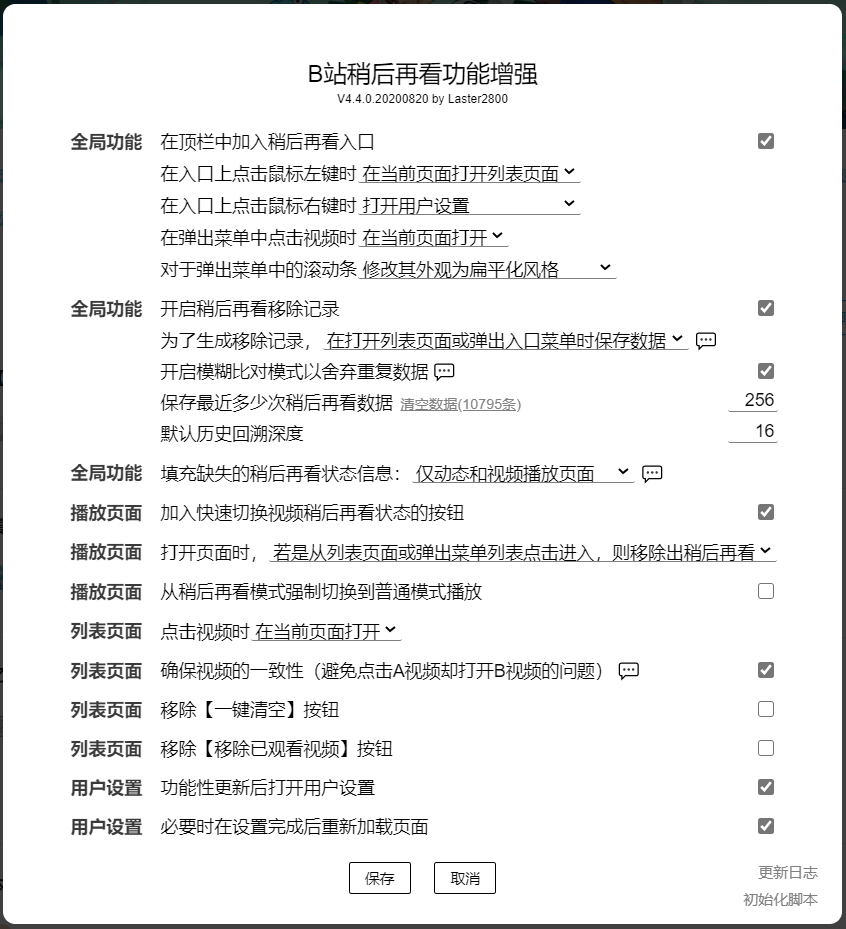
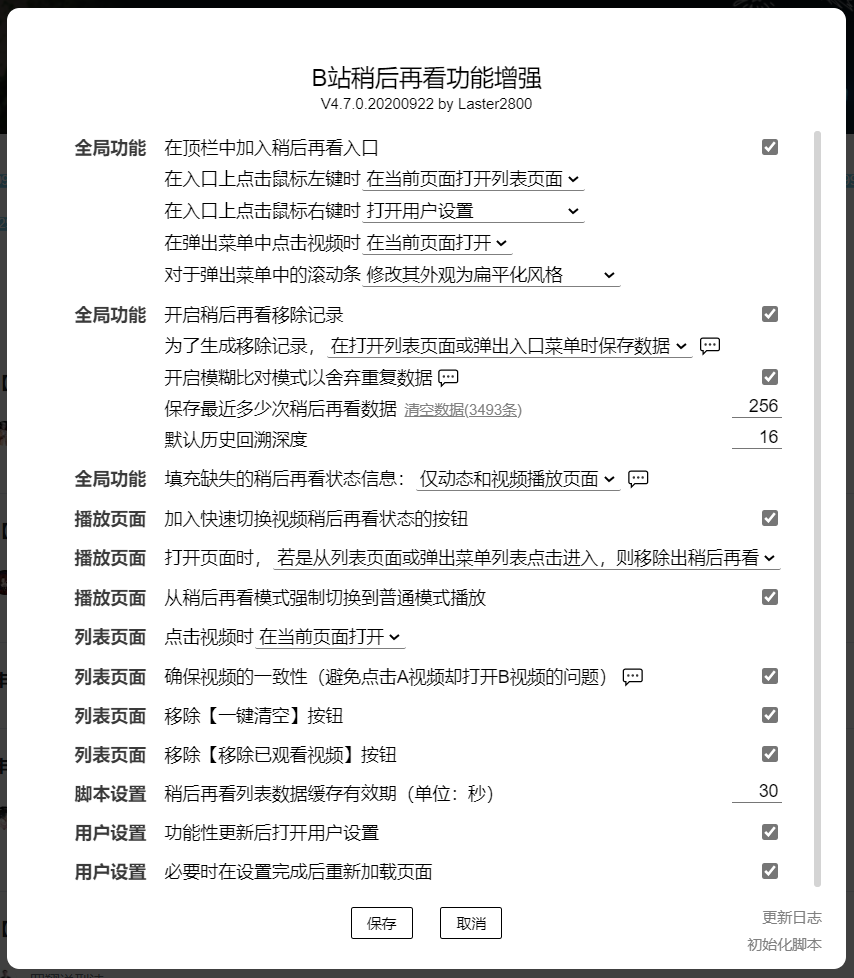
B站稍后再看功能增强
* 对稍后再看列表数据进行缓存，在缓存的有效期内将会使用缓存来代替网络请求，除非有必要确保数据的正确性；并提供有效期的设置选项
* 配置的默认值硬编码进 configMap 中，而不再作为脚本常量看待
* 修复某些情况下稍后再看列表数据刷新没有完毕就进行下一步处理的问题

diff --git a/BilibiliWatchlaterPlus/BilibiliWatchlaterPlus.js b/BilibiliWatchlaterPlus/BilibiliWatchlaterPlus.js
@@ -1,6 +1,6 @@
 // ==UserScript==
 // @name            B站稍后再看功能增强
-// @version         4.6.4.20200921
+// @version         4.7.0.20200922
 // @namespace       laster2800
 // @author          Laster2800
 // @description     与稍后再看功能相关，一切你能想到和想不到的功能
@@ -174,6 +174,7 @@
    * @property {boolean} forceConsistentVideo 确保视频的一致性
    * @property {boolean} removeButton_removeAll 移除【一键清空】按钮
    * @property {boolean} removeButton_removeWatched 移除【移除已观看视频】按钮
+   * @property {number} watchlaterListCacheValidPeriod 稍后再看列表数据缓存有效期（单位：秒）
    * @property {boolean} openSettingAfterConfigUpdate 功能性更新后打开设置页面
    * @property {boolean} reloadAfterSetting 设置生效后刷新页面
    */
@@ -182,6 +183,7 @@
    */
   /**
    * @typedef GMObject_configMap_item
+   * @property {*} default 默认值
    * @property {'checked'|'value'} attr 对应 `DOM` 节点上的属性
    * @property {boolean} [manual] 配置保存时是否需要手动处理
    * @property {boolean} [needNotReload] 配置改变后是否不需要重新加载就能生效
@@ -250,8 +252,6 @@
    * @typedef GMObject_const
    * @property {number} rhsMin 稍后再看数据最小保存次数
    * @property {number} rhsMax 稍后再看数据最大保存次数
-   * @property {number} defaultRhs 稍后再看数据的默认保存次数
-   * @property {number} defaultRhst 默认历史回溯深度
    * @property {number} rhsWarning 稍后再看数据保存数警告线
    * @property {number} fadeTime UI 渐变时间（单位：ms）
    * @property {number} textFadeTime 文字渐变时间（单位：ms）
@@ -282,51 +282,31 @@
   const gm = {
     id: 'gm395456',
     configVersion: GM_getValue('configVersion'),
-    configUpdate: 20200819,
+    configUpdate: 20200922,
     searchParams: new URL(location.href).searchParams,
-    config: {
-      headerButton: true,
-      headerButtonOpL: Enums.headerButtonOp.openListInCurrent,
-      headerButtonOpR: Enums.headerButtonOp.openUserSetting,
-      openHeaderMenuLink: Enums.openHeaderMenuLink.openInCurrent,
-      menuScrollbarSetting: Enums.menuScrollbarSetting.beautify,
-      removeHistory: true,
-      removeHistorySavePoint: Enums.removeHistorySavePoint.listAndMenu,
-      removeHistoryFuzzyCompare: true,
-      removeHistorySaves: null,
-      removeHistorySearchTimes: null,
-      fillWatchlaterStatus: Enums.fillWatchlaterStatus.dynamicAndVideo,
-      videoButton: true,
-      autoRemove: Enums.autoRemove.openFromList,
-      redirect: false,
-      openListVideo: Enums.openListVideo.openInCurrent,
-      forceConsistentVideo: true,
-      removeButton_removeAll: false,
-      removeButton_removeWatched: false,
-      openSettingAfterConfigUpdate: true,
-      reloadAfterSetting: true,
-    },
+    config: {},
     configMap: {
-      headerButton: { attr: 'checked' },
-      headerButtonOpL: { attr: 'value', configVersion: 20200716 },
-      headerButtonOpR: { attr: 'value', configVersion: 20200716 },
-      openHeaderMenuLink: { attr: 'value', configVersion: 20200717 },
-      menuScrollbarSetting: { attr: 'value', configVersion: 20200722 },
-      removeHistory: { attr: 'checked', manual: true },
-      removeHistorySavePoint: { attr: 'value', configVersion: 20200815 },
-      removeHistoryFuzzyCompare: { attr: 'checked', needNotReload: true, configVersion: 20200819 },
-      removeHistorySaves: { attr: 'value', manual: true, needNotReload: true, configVersion: 20200721 },
-      removeHistorySearchTimes: { attr: 'value', manual: true, needNotReload: true, configVersion: 20200716 },
-      fillWatchlaterStatus: { attr: 'value', configVersion: 20200819 },
-      videoButton: { attr: 'checked' },
-      autoRemove: { attr: 'value', configVersion: 20200805 },
-      redirect: { attr: 'checked' },
-      openListVideo: { attr: 'value', configVersion: 20200717 },
-      forceConsistentVideo: { attr: 'checked', configVersion: 20200723 },
-      removeButton_removeAll: { attr: 'checked', configVersion: 20200722 },
-      removeButton_removeWatched: { attr: 'checked', configVersion: 20200722 },
-      openSettingAfterConfigUpdate: { attr: 'checked', configVersion: 20200805 },
-      reloadAfterSetting: { attr: 'checked', needNotReload: true, configVersion: 20200715 },
+      headerButton: { default: true, attr: 'checked' },
+      headerButtonOpL: { default: Enums.headerButtonOp.openListInCurrent, attr: 'value', configVersion: 20200716 },
+      headerButtonOpR: { default: Enums.headerButtonOp.openUserSetting, attr: 'value', configVersion: 20200716 },
+      openHeaderMenuLink: { default: Enums.openHeaderMenuLink.openInCurrent, attr: 'value', configVersion: 20200717 },
+      menuScrollbarSetting: { default: Enums.menuScrollbarSetting.beautify, attr: 'value', configVersion: 20200722 },
+      removeHistory: { default: true, attr: 'checked', manual: true },
+      removeHistorySavePoint: { default: Enums.removeHistorySavePoint.listAndMenu, attr: 'value', configVersion: 20200815 },
+      removeHistoryFuzzyCompare: { default: true, attr: 'checked', needNotReload: true, configVersion: 20200819 },
+      removeHistorySaves: { default: 64, attr: 'value', manual: true, needNotReload: true, configVersion: 20200721 },
+      removeHistorySearchTimes: { default: 16, attr: 'value', manual: true, needNotReload: true, configVersion: 20200716 },
+      fillWatchlaterStatus: { default: Enums.fillWatchlaterStatus.dynamicAndVideo, attr: 'value', configVersion: 20200819 },
+      videoButton: { default: true, attr: 'checked' },
+      autoRemove: { default: Enums.autoRemove.openFromList, attr: 'value', configVersion: 20200805 },
+      redirect: { default: false, attr: 'checked' },
+      openListVideo: { default: Enums.openListVideo.openInCurrent, attr: 'value', configVersion: 20200717 },
+      forceConsistentVideo: { default: true, attr: 'checked', configVersion: 20200723 },
+      removeButton_removeAll: { default: false, attr: 'checked', configVersion: 20200722 },
+      removeButton_removeWatched: { default: false, attr: 'checked', configVersion: 20200722 },
+      watchlaterListCacheValidPeriod: { default: 30, attr: 'value', manual: true, needNotReload: true, configVersion: 20200922 },
+      openSettingAfterConfigUpdate: { default: true, attr: 'checked', configVersion: 20200805 },
+      reloadAfterSetting: { default: true, attr: 'checked', needNotReload: true, configVersion: 20200715 },
     },
     data: {
       removeHistoryData: null,
@@ -354,8 +334,6 @@
     const: {
       rhsMin: 1,
       rhsMax: 1024, // 经过性能测试，放宽到 1024 应该没有太大问题
-      defaultRhs: 64, // 就目前的 PC 运算力，即使达到 gm.const.rhsWarning 且在极限情况下也不会有明显的卡顿
-      defaultRhst: 16,
       rhsWarning: 256,
       fadeTime: 400,
       textFadeTime: 100,
@@ -427,9 +405,10 @@
     initAtDocumentStart() {
       // document-start 级用户配置读取
       if (gm.configVersion > 0) {
-        gm.config.redirect = this.method.gmValidate('redirect', gm.config.redirect)
+        gm.config.redirect = this.method.gmValidate('redirect', gm.configMap.redirect.default)
       } else {
-        GM_setValue('redirect', gm.config.redirect)
+        gm.config.redirect = gm.configMap.redirect.default
+        GM_setValue('redirect', gm.configMap.redirect.default)
       }
     }
 
@@ -446,10 +425,11 @@
      * 初始化全局对象
      */
     initGMObject() {
-      gm.config = {
-        ...gm.config,
-        removeHistorySaves: gm.const.defaultRhs,
-        removeHistorySearchTimes: gm.const.defaultRhst,
+      const cfgDocumentStart = { redirect: true } // document-start 时期就处理过的配置
+      for (const name in gm.configMap) {
+        if (!cfgDocumentStart[name]) {
+          gm.config[name] = gm.configMap[name].default
+        }
       }
 
       gm.data = {
@@ -495,6 +475,20 @@
               }
             }
 
+            if (!reload && gm.config.watchlaterListCacheValidPeriod > 0) {
+              const cacheTime = GM_getValue('watchlaterListCacheTime')
+              if (cacheTime) {
+                const current = new Date().getTime()
+                if (current - cacheTime < gm.config.watchlaterListCacheValidPeriod * 1000) {
+                  const list = GM_getValue('watchlaterListCache')
+                  if (list) {
+                    _.watchlaterListData = list
+                    return list
+                  }
+                }
+              }
+            }
+
             _.watchlaterListData = null // 一旦重新获取，将原来的数据舍弃
             _.watchlaterListData_loading = true
             try {
@@ -504,6 +498,10 @@
               })
               const json = JSON.parse(resp.responseText)
               const current = json.data.list
+              if (gm.config.watchlaterListCacheValidPeriod > 0) {
+                GM_setValue('watchlaterListCacheTime', new Date().getTime())
+                GM_setValue('watchlaterListCache', current)
+              }
               _.watchlaterListData = current
               return current
             } catch (e) {
@@ -879,6 +877,16 @@
                     </td>
                   </tr>
 
+                  <tr class="gm-item" title="在缓存的有效期内将会使用缓存来代替网络请求，除非有必要确保数据的正确性。设置为0时禁止使用缓存。">
+                    <td><div>脚本设置</div></td>
+                    <td>
+                      <div>
+                        <span>稍后再看列表数据缓存有效期（单位：秒）</span>
+                        <input id="gm-watchlaterListCacheValidPeriod" type="text">
+                      </div>
+                    </td>
+                  </tr>
+
                   <tr class="gm-item" title="功能性更新后，是否打开用户设置？">
                     <td><div>用户设置</div></td>
                     <td>
@@ -1047,6 +1055,7 @@
             setRhWaring()
             setRhsWarning()
           }
+
           el.removeHistorySearchTimes.oninput = function() {
             const v0 = this.value.replace(/[^\d]/g, '')
             if (v0 === '') {
@@ -1068,6 +1077,18 @@
               el.removeHistorySaves.value = this.value
               setRhWaring()
               setRhsWarning()
+            }
+          }
+
+          el.watchlaterListCacheValidPeriod.oninput = function() {
+            const v0 = this.value.replace(/[^\d]/g, '')
+            if (v0 === '') {
+              this.value = ''
+            }
+          }
+          el.watchlaterListCacheValidPeriod.onblur = function() {
+            if (this.value === '') {
+              this.value = gm.configMap.watchlaterListCacheValidPeriod.default
             }
           }
         }
@@ -1128,7 +1149,7 @@
               // 果：removeHistorySaves & removeHistoryData
               gm.data.removeHistoryData().setMaxSize(rhsV)
               gm.config.removeHistorySaves = rhsV
-              GM_setValue('removeHistorySaves', gm.config.removeHistorySaves)
+              GM_setValue('removeHistorySaves', rhsV)
               GM_setValue('removeHistoryData', gm.data.removeHistoryData())
               // 不需要修改 needReload
             }
@@ -1137,7 +1158,7 @@
             const rhstV = parseInt(el.removeHistorySearchTimes.value)
             if (rhstV != gm.config.removeHistorySearchTimes && !isNaN(rhstV)) {
               gm.config.removeHistorySearchTimes = rhstV
-              GM_setValue('removeHistorySearchTimes', gm.config.removeHistorySearchTimes)
+              GM_setValue('removeHistorySearchTimes', rhstV)
               // 不需要修改 needReload
             }
           } else if (resetMaxSize) {
@@ -1145,6 +1166,12 @@
             // 果：removeHistoryData
             gm.data.removeHistoryData(true)
             GM_deleteValue('removeHistoryData')
+          }
+
+          const wlcvp = parseInt(el.watchlaterListCacheValidPeriod.value)
+          if (wlcvp != gm.config.watchlaterListCacheValidPeriod && !isNaN(wlcvp)) {
+            gm.config.watchlaterListCacheValidPeriod = wlcvp
+            GM_setValue('watchlaterListCacheValidPeriod', wlcvp)
           }
 
           _self.closeMenuItem('setting')
@@ -1509,7 +1536,7 @@
           location.reload()
         } else {
           if (gm.config.removeHistory) {
-            gm.config.removeHistorySaves = gm.const.defaultRhs
+            gm.config.removeHistorySaves = gm.configMap.removeHistorySaves.default
             gm.data.removeHistoryData(true)
           }
         }
@@ -1686,6 +1713,7 @@
 
         /**
          * 保存稍后再看数据，用于后续操作
+         * @async
          * @param {boolean} [reload] 是否重新加载稍后再看列表数据
          */
         saveWatchlaterListData(reload) {
@@ -1694,7 +1722,7 @@
             if (!_.watchLaterListData_saved || reload) {
               if (!_.watchlaterListData_saving) {
                 _.watchlaterListData_saving = true
-                gm.data.watchlaterListData(reload).then(current => {
+                return gm.data.watchlaterListData(reload).then(current => {
                   if (current && current.length > 0) {
                     if (gm.config.removeHistoryFuzzyCompare) {
                       const last = gm.data.removeHistoryData().get(0)
@@ -2303,7 +2331,7 @@
             gm.searchParams = new URL(location.href).searchParams
             const removed = await _self.processAutoRemoveInNormalMode()
             if (gm.config.removeHistory && gm.config.removeHistorySavePoint == Enums.removeHistorySavePoint.anypage) {
-              _self.method.saveWatchlaterListData(true)
+              await _self.method.saveWatchlaterListData(true)
               reloaded = true
             }
             const status = removed ? false : await _self.method.getVideoWatchlaterStatusByAid(bus.aid, !reloaded)
@@ -2473,7 +2501,7 @@
             gm.searchParams = new URL(location.href).searchParams
             const removed = await _self.processAutoRemoveInWatchlaterMode()
             if (gm.config.removeHistory && gm.config.removeHistorySavePoint == Enums.removeHistorySavePoint.anypage) {
-              _self.method.saveWatchlaterListData(true)
+              await _self.method.saveWatchlaterListData(true)
               reloaded = true
             }
             const status = removed ? false : await _self.method.getVideoWatchlaterStatusByAid(bus.aid, !reloaded)

diff --git a/BilibiliWatchlaterPlus/changelog.md b/BilibiliWatchlaterPlus/changelog.md
@@ -2,6 +2,12 @@
 
 本日志只记录用户友好的更新说明，影响不大的问题修复与修改不作记录，具体修改见 [提交记录](https://gitee.com/liangjiancang/userscript/commits/master/BilibiliWatchlaterPlus/BilibiliWatchlaterPlus.js)。
 
+## V4.7
+
+1. 脚本：对稍后再看列表数据进行缓存，在缓存的有效期内将会使用缓存来代替网络请求，除非有必要确保数据的正确性。
+2. 功能实现：对稍后再看列表数据缓存有效期进行设置。
+3. 代码：配置的默认值硬编码进 configMap 中，而不再作为脚本常量看待。
+
 ## V4.6
 
 1. 脚本：兼容性处理。
@@ -50,8 +56,8 @@
 
 ## V3.5
 
-1. 代码：重构，OOP 化。
-2. API：强加各类 API，在一些回调上通过 `this` 附加必要信息。
+1. API：强加各类 API，在一些回调上通过 `this` 附加必要信息。
+2. 代码：重构，OOP 化。
 
 ## V3.4
 
